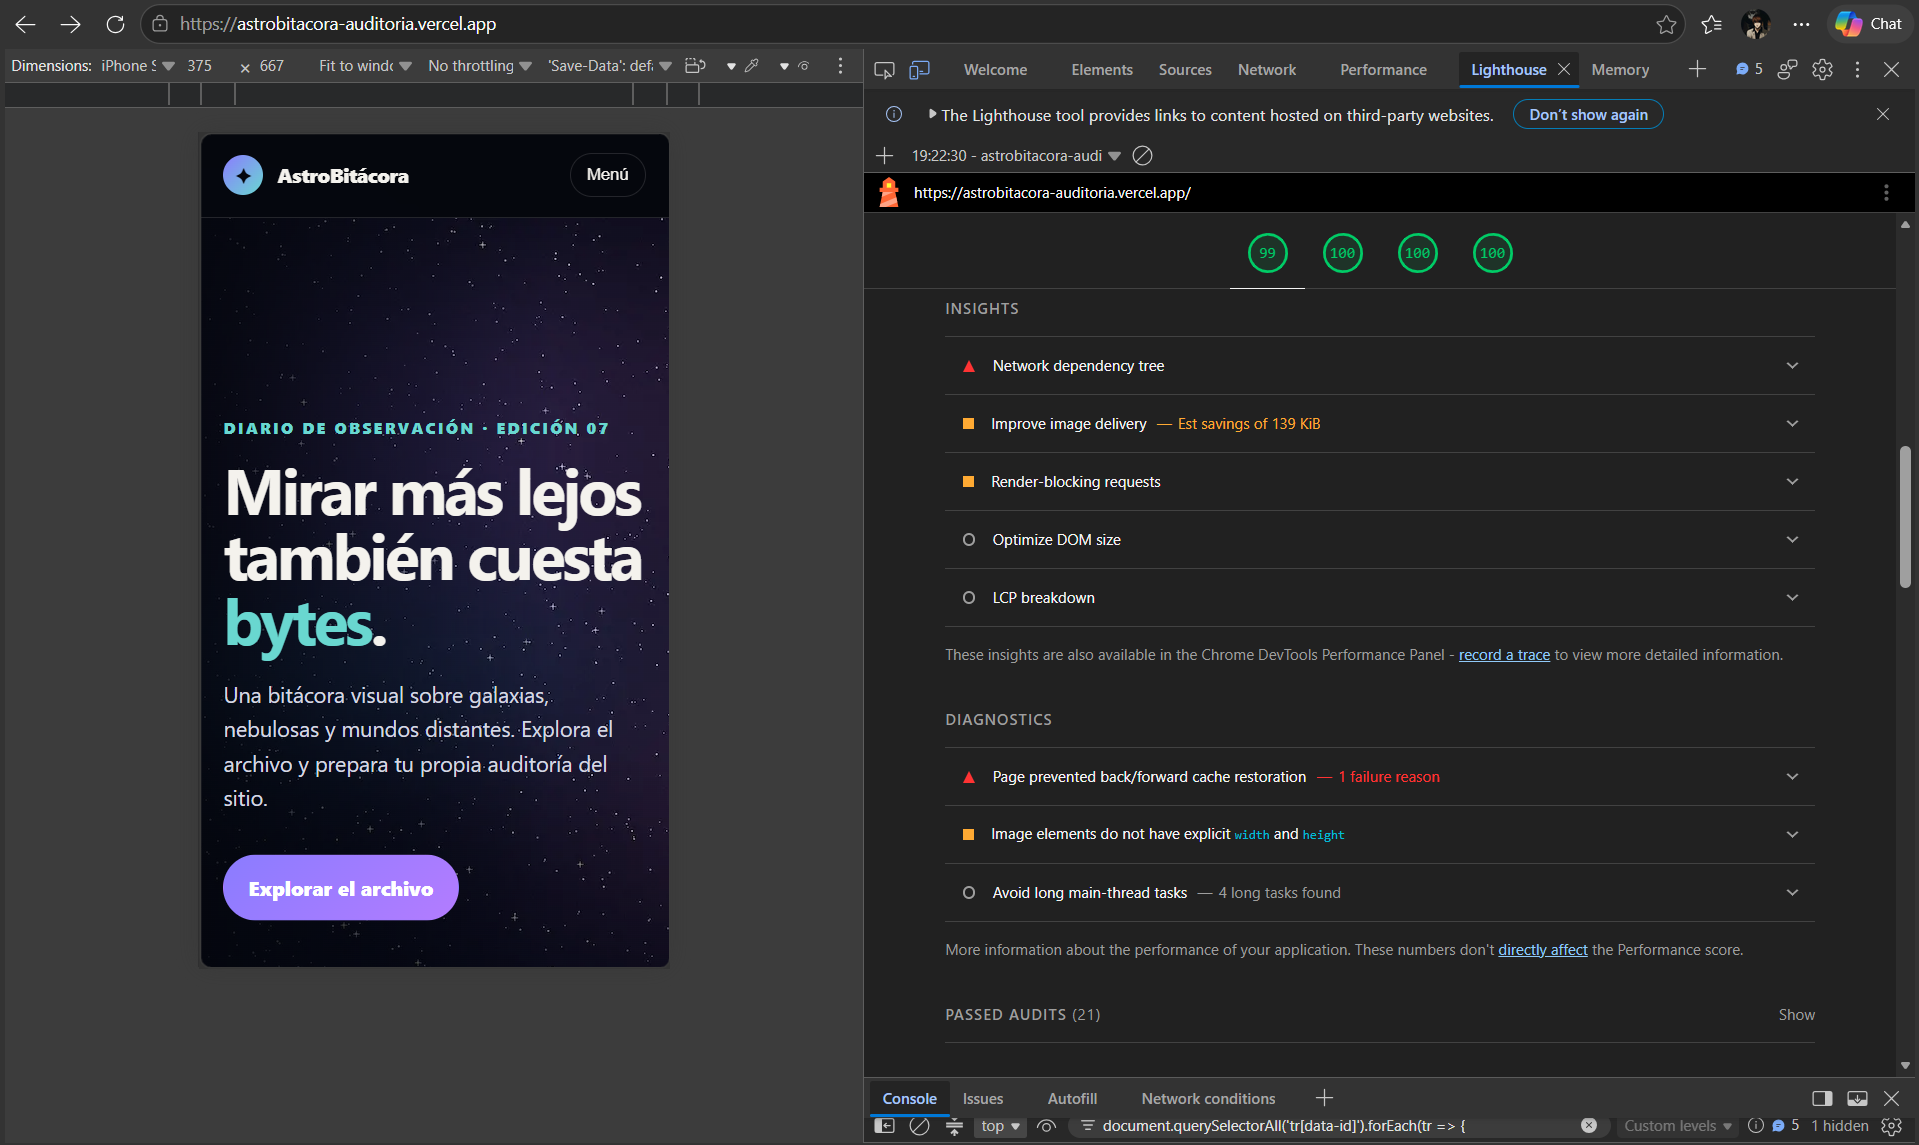
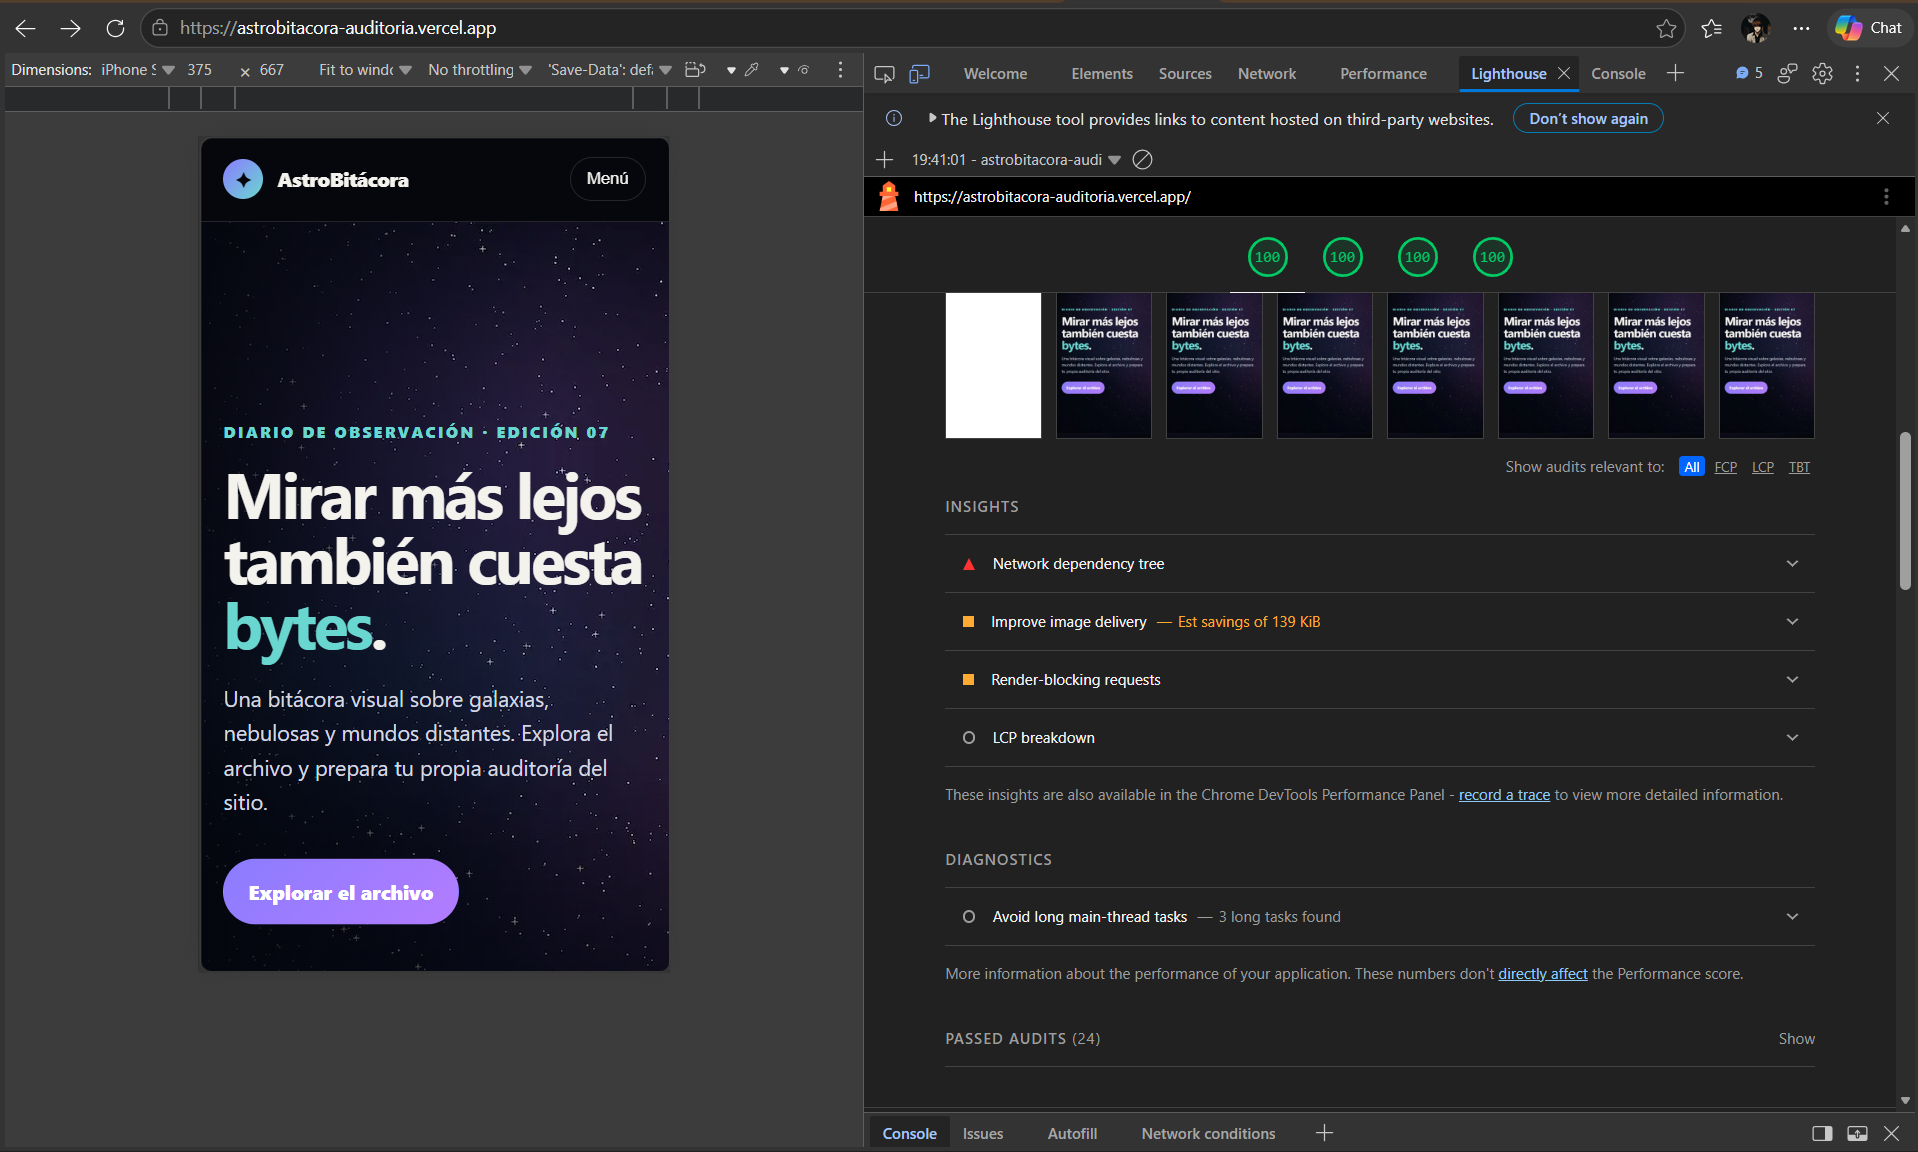
docs: registrar resultados finales

diff --git a/AUDITORIA.md b/AUDITORIA.md
@@ -4,7 +4,11 @@
 - **URL pública:** https://astrobitacora-auditoria.vercel.app/
 - **Autora:** Flavia Valencia
 
-> Los campos marcados con `[completar]` se llenan después de optimizar y volver a medir.
+---
+
+## Resumen
+
+El desempeño pasó de **74 a 100** en Lighthouse (móvil). El LCP bajó de **4.2 s a 1.3 s** y el TBT de **470 ms a 10 ms**, mientras el CLS se mantuvo en **0**. La causa principal del problema era el peso de las imágenes: seis JPEG de 6 a 8 MB que sumaban unos 37.8 MB y que, tras convertirlas a WebP y redimensionarlas, pasaron a unos 236 KB.
 
 ---
 
@@ -30,13 +34,13 @@ Evidencias: `evidencias/inicial-puntaje.png`, `evidencias/inicial-metricas.png` 
 
 ### Las tres oportunidades o diagnósticos más importantes
 
-1. **Improve image delivery (ahorro estimado: 30,785 KiB).** Casi todo el peso de la página viene de las 6 imágenes JPEG, que no están redimensionadas ni comprimidas ni en un formato moderno.
+1. **Improve image delivery (ahorro estimado: 30,785 KiB).** Casi todo el peso de la página viene de las 6 imágenes JPEG, que no están redimensionadas, comprimidas ni en un formato moderno.
 2. **LCP request discovery.** La imagen que define el LCP no se descubre ni se prioriza a tiempo. Se relaciona con la ausencia de `fetchpriority="high"` en el hero y con la competencia de las otras 5 imágenes por el ancho de banda.
 3. **Avoid enormous network payloads (31,119 KiB)** junto con **Image elements do not have explicit width and height**. El primero confirma el problema de peso y el segundo confirma que las 6 `<img>` no declaran dimensiones.
 
 Otros diagnósticos observados: *Render-blocking requests* (script sin `defer` en el `<head>`), *Minimize main-thread work* (3.3 s) y *Avoid long main-thread tasks* (6 tareas largas).
 
-**Elemento LCP antes de optimizar:** `[completar: revisar el desplegable "LCP breakdown" de Lighthouse]`
+**Elemento LCP antes de optimizar:** `[completar: desplegar "LCP breakdown" en la medición inicial]`
 
 ---
 
@@ -55,21 +59,21 @@ Las 6 imágenes JPEG originales. El HTML, CSS y JS juntos pesan alrededor de 16 
 | lunar-horizon.jpg | 6,297,463 B (≈ 6.00 MB) |
 | orion.jpg | 6,294,800 B (≈ 6.00 MB) |
 | deep-field.jpg | 6,217,453 B (≈ 5.93 MB) |
-| **Total** | **≈ 37.8 MB** |
+| **Total** | **39,642,067 B (≈ 37.8 MB)** |
 
 El total transferido medido por Lighthouse (≈ 30.4 MB) es menor porque Cloudinary sirve las imágenes con algo de compresión.
 
 **¿Todas las imágenes necesitan descargarse inmediatamente?**
-No. Solo el hero está en el primer viewport. Las 5 imágenes de la galería están más abajo y no usan `loading="lazy"`, por lo que el navegador las descarga todas al cargar la página.
+No. Solo el hero está en el primer viewport. Las 5 imágenes de la galería están más abajo y no usaban `loading="lazy"`, por lo que el navegador las descargaba todas al cargar la página.
 
 **¿Hay imágenes sin dimensiones explícitas?**
-Sí. Las 6 etiquetas `<img>` no tienen `width` ni `height`. Aun así el CLS medido fue 0, probablemente porque el CSS ya reserva el espacio `[confirmar revisando styles.css]`.
+Sí. Las 6 etiquetas `<img>` no tenían `width` ni `height`. Aun así el CLS medido fue 0. Revisando `styles.css`, la explicación es que `.hero__image` tiene `min-height: 620px`, que reserva el espacio del hero aunque la imagen no haya cargado, y que las imágenes de la galería están fuera del primer viewport, donde el desplazamiento no se contabiliza en el CLS de la carga inicial.
 
 **¿El recurso visual principal tiene un formato y tamaño razonables?**
-No. El hero es un JPEG de unos 8 MB, sin formato moderno y con un tamaño muy superior al que se muestra en pantalla.
+No. El hero era un JPEG de unos 8 MB, sin formato moderno y con un tamaño muy superior al que se muestra en pantalla.
 
 **¿Cómo se carga el JavaScript?**
-Con `<script src="script.js"></script>` en el `<head>`, sin `defer` ni `async`. Bloquea el parseo del HTML mientras se descarga y ejecuta. El archivo es muy pequeño (799 bytes), por lo que se espera un impacto limitado.
+Con `<script src="script.js"></script>` en el `<head>`, sin `defer` ni `async`. Bloquea el parseo del HTML mientras se descarga y ejecuta. El archivo es muy pequeño (799 bytes), por lo que se esperaba un impacto limitado.
 
 **¿Hay recursos que podrían entregarse en un formato más eficiente?**
 Las 6 imágenes: de JPEG a WebP (o AVIF).
@@ -77,8 +81,8 @@ Las 6 imágenes: de JPEG a WebP (o AVIF).
 ### Hipótesis
 
 1. **Si convierto el hero a WebP y lo redimensiono al tamaño con que realmente se muestra, espero mejorar el LCP, porque** el hero es la imagen principal visible al cargar y pasar de unos 8 MB a unos pocos cientos de KB reduce mucho su tiempo de descarga.
-2. **Si agrego `loading="lazy"` a las 5 imágenes de la galería, espero reducir los bytes iniciales y mejorar el LCP, porque** esas imágenes (más de 30 MB) dejan de competir por el ancho de banda con el hero durante la carga inicial.
-3. **Si agrego `width` y `height` a todas las imágenes, espero que el CLS se mantenga en 0 (o no empeore) al cambiar las imágenes, porque** el navegador reserva el espacio antes de que cada imagen termine de descargarse.
+2. **Si agrego `loading="lazy"` a las 5 imágenes de la galería, espero reducir los bytes iniciales y mejorar el LCP, porque** esas imágenes dejan de competir por el ancho de banda con el hero durante la carga inicial.
+3. **Si agrego `width` y `height` a todas las imágenes, espero que el CLS se mantenga en 0, porque** el navegador reserva el espacio antes de que cada imagen termine de descargarse.
 4. **Si agrego `defer` al script y `fetchpriority="high"` al hero, espero una mejora pequeña en FCP y en la detección del LCP, porque** el parseo del HTML ya no se detiene y el navegador prioriza la imagen principal. Como `script.js` usa `DOMContentLoaded`, `defer` es seguro.
 5. **Si reduzco el peso de las imágenes, espero que baje el TBT, porque** decodificar imágenes enormes ocupa el hilo principal, mientras que el script propio es demasiado pequeño para explicarlo.
 
@@ -86,79 +90,117 @@ Las 6 imágenes: de JPEG a WebP (o AVIF).
 
 ## Fase 3. Optimizaciones aplicadas
 
-| Prioridad | Commit | Cambio | Problema observable que resuelve |
-|---|---|---|---|
-| 1 | `perf: optimizar imagen hero` | `[completar]` hero a WebP, ancho ___ px, sin `loading="lazy"`, con `fetchpriority="high"` | Hero de ≈ 8 MB; LCP 4.2 s |
-| 2 | `perf: convertir imagenes de galeria a webp` | `[completar]` 5 imágenes a WebP, ancho ___ px | "Improve image delivery": 30,785 KiB de ahorro estimado |
-| 3 | `perf: diferir imagenes fuera del viewport` | `loading="lazy"` en las 5 imágenes de la galería | Se descargaban todas al inicio |
-| 4 | `perf: agregar width y height a imagenes` | `width` y `height` en las 6 `<img>` | Diagnóstico "Image elements do not have explicit width and height" |
-| 5 | `perf: evitar bloqueo del script principal` | `defer` en `<script src="script.js">` | "Render-blocking requests" |
-| 6 | `docs: registrar resultados finales` | Esta bitácora y evidencias finales | Documentar el antes y el después |
+Historial real del repositorio:
 
-Optimización secundaria (opcional): minificar CSS y JS. Se espera poco impacto porque pesan unos pocos KB.
+| Commit | Cambio | Problema observable que resuelve |
+|---|---|---|
+| `chore: sitio base para auditoria` | Sitio original sin optimizar | Punto de partida |
+| `docs: registrar medicion inicial y evidencias` | Bitácora y capturas iniciales | Evidencia del antes |
+| `perf: optimizar imagen hero` | Hero a WebP (1600 × 900), `fetchpriority="high"`, sin `loading="lazy"`, `height: auto` en `.hero__image` | Hero de ≈ 8 MB; LCP de 4.2 s |
+| `perf: convertir imagenes de galeria a webp` | 5 imágenes a WebP (1000 × 625) | "Improve image delivery": 30,785 KiB de ahorro estimado |
+| `perf: diferir imagenes fuera del viewport` | `loading="lazy"` en las 5 imágenes de la galería | Las 5 se descargaban al inicio aunque no se veían |
+| `perf: evitar bloqueo del script principal` | `defer` en `<script src="script.js">` | "Render-blocking requests" |
+| `perf: agregar width y height a imagenes` | Se agregaron `width="W" height="H"` **sin reemplazar los placeholders** (ver abajo) | "Image elements do not have explicit width and height" |
+| `fix: corregir width y height reales de las imagenes` | Hero 1600 × 900 y galería 1000 × 625 | Corrige el commit anterior |
+| `docs: registrar resultados finales` | Esta bitácora y evidencias finales | Documentar el antes y el después |
+
+Optimización secundaria no aplicada: minificar CSS y JS. Pesan unos pocos KB, por lo que se espera un impacto mínimo.
+
+### Un error detectado durante el proceso
+
+En el commit de `width` y `height` quedaron los valores literales `"W"` y `"H"` en las 6 imágenes, y el navegador los ignora. Una primera medición (19:22:30, puntaje 99) todavía mostraba el diagnóstico *"Image elements do not have explicit width and height"*, y además se hizo apenas un minuto después del último commit, antes de que el despliegue estuviera publicado. Con `Select-String` sobre `index.html` se confirmó el problema, se obtuvieron las medidas reales desde la consola del navegador (`naturalWidth` y `naturalHeight`) y se corrigió en un commit aparte. Esa medición se descarta como final y se conserva solo como referencia.
 
 ### Peso de las imágenes antes y después
 
-| Imagen | JPEG original | WebP final | Ahorro |
+| Imagen | JPEG original | WebP final | Reducción |
 |---|---|---|---|
-| hero-cosmos | 7.80 MB | `[completar]` | `[completar]` |
-| andromeda | 6.05 MB | `[completar]` | `[completar]` |
-| exoplanet | 6.01 MB | `[completar]` | `[completar]` |
-| lunar-horizon | 6.00 MB | `[completar]` | `[completar]` |
-| orion | 6.00 MB | `[completar]` | `[completar]` |
-| deep-field | 5.93 MB | `[completar]` | `[completar]` |
-| **Total** | **≈ 37.8 MB** | `[completar]` | `[completar]` |
+| hero-cosmos | 8,183,389 B (7.80 MB) | 59,960 B (58.6 KB) | 99.3 % |
+| andromeda | 6,344,666 B (6.05 MB) | 35,836 B (35.0 KB) | 99.4 % |
+| exoplanet | 6,304,296 B (6.01 MB) | 36,586 B (35.7 KB) | 99.4 % |
+| lunar-horizon | 6,297,463 B (6.00 MB) | 37,182 B (36.3 KB) | 99.4 % |
+| orion | 6,294,800 B (6.00 MB) | 35,526 B (34.7 KB) | 99.4 % |
+| deep-field | 6,217,453 B (5.93 MB) | 36,190 B (35.3 KB) | 99.4 % |
+| **Total** | **39,642,067 B (37.8 MB)** | **241,280 B (235.6 KB)** | **99.4 %** |
+
+Formato elegido: **WebP**, calidad aproximada de 75, exportado con Squoosh. El hero a 1600 px de ancho y las 5 imágenes de la galería a 1000 px.
 
 ---
 
 ## Fase 4. Medición final
 
-Condiciones iguales a las de la medición inicial: mismo navegador (Edge), misma emulación móvil, misma herramienta y configuración.
+Condiciones iguales a las de la medición inicial: Edge, emulación móvil de iPhone (375 × 667), Lighthouse con la categoría Performance, ventana de incógnito.
 
-| Métrica | Antes | Después | Cambio |
+| Métrica | Antes (18:24:11) | Después (19:41:01) | Cambio |
 |---|---|---|---|
-| Fecha y hora | 01/10/2026 18:24:11 | `[completar]` | |
-| Puntaje de desempeño | 74 | `[completar]` | |
-| FCP | 1.1 s | `[completar]` | |
-| LCP | 4.2 s | `[completar]` | |
-| CLS | 0 | `[completar]` | |
-| TBT | 470 ms | `[completar]` | |
-| Speed Index | 1.4 s | `[completar]` | |
-| Bytes transferidos | 31,119 KiB | `[completar]` | |
+| Puntaje de desempeño | 74 | **100** | +26 puntos |
+| FCP | 1.1 s | 1.0 s | −0.1 s |
+| LCP | 4.2 s | 1.3 s | −2.9 s (−69 %) |
+| CLS | 0 | 0 | Se mantuvo |
+| TBT | 470 ms | 10 ms | −460 ms (−98 %) |
+| Speed Index | 1.4 s | 1.1 s | −0.3 s |
+| Bytes transferidos | 31,119 KiB | `[completar: pestaña Network, "Disable cache" activado]` | |
 
-Evidencias: `evidencias/final-metricas.png` y `evidencias/final-insights.png`.
+Evidencias: `evidencias/final-puntaje.png`, `evidencias/final-metricas.png` y `evidencias/final-insights.png`.
+
+### Medición intermedia descartada (19:22:30)
+
+| Métrica | Valor |
+|---|---|
+| Puntaje | 99 |
+| FCP / LCP | 1.2 s / 1.3 s |
+| TBT | 130 ms |
+| CLS | 0 |
+| Speed Index | 1.6 s |
+
+Se descarta porque se hizo antes de publicar la corrección de `width` y `height`. En esa corrida también apareció el diagnóstico *"Page prevented back/forward cache restoration"*, que no volvió a aparecer en la medición final.
+
+### Insights en la medición final
+
+- *Improve image delivery*: ahorro estimado de 139 KiB (antes: 30,785 KiB).
+- *Render-blocking requests* y *Network dependency tree*: siguen apareciendo. `[completar: abrir cada uno y anotar qué recurso señala]`
+- *Avoid long main-thread tasks*: 3 tareas largas (antes: 6).
+- Ya no aparecen *Avoid enormous network payloads* ni *Image elements do not have explicit width and height*.
 
 ### Análisis
 
-- **¿Qué métrica cambió más?** `[completar]`
-- **¿Qué optimización redujo más bytes?** `[completar]` (hipótesis: la conversión a WebP con redimensionado)
-- **¿Qué cambio tuvo poco impacto?** `[completar]` (hipótesis: `defer`, por el tamaño mínimo del script)
-- **¿Apareció algún problema nuevo?** `[completar]`
-- **¿Conservaría todos los cambios en producción? ¿Por qué?** `[completar]`
+**¿Qué métrica cambió más?**
+El LCP en tiempo absoluto, de 4.2 s a 1.3 s, que pasó de rojo a verde. En porcentaje, el TBT bajó más (−98 %). Ambos se explican por el mismo cambio: dejar de descargar y decodificar imágenes de 6 a 8 MB.
+
+**¿Qué optimización redujo más bytes?**
+La conversión a WebP con redimensionado. Las seis imágenes pasaron de 37.8 MB a 235.6 KB, una reducción del 99.4 %. `loading="lazy"` no reduce el peso total de la página, solo difiere cuándo se descargan las imágenes de la galería.
+
+**¿Qué cambio tuvo poco impacto?**
+`defer` en el script. Pesa 799 bytes, así que el bloqueo que causaba era mínimo. No se midió de forma aislada, por lo que es una inferencia. Tampoco se esperaba mejora en CLS por `width` y `height`: el CLS ya era 0 y se mantuvo.
+
+**¿Apareció algún problema nuevo?**
+Sí, uno de proceso y no de rendimiento: el commit de `width` y `height` se subió con los placeholders `"W"` y `"H"` y hubo que corregirlo (ver Fase 3). En la medición final no aparecieron problemas nuevos de rendimiento y el CLS siguió en 0.
+
+**¿Conservaría todos los cambios en producción? ¿Por qué?**
+Sí. Cada cambio está justificado por evidencia y ninguno empeoró una métrica. Con una salvedad: los WebP pesan unos 35 KB, y conviene revisar a ojo que mantengan nitidez suficiente, sobre todo las dos tarjetas anchas en pantallas grandes. Si se ven blandas, se puede subir la calidad o el ancho de exportación. Los WebP están ya servidos desde el mismo origen, lo que además elimina la dependencia de Cloudinary.
 
 ---
 
 ## Preguntas finales
 
 **1. ¿Qué significa LCP y cuál fue el elemento LCP antes y después?**
-LCP (Largest Contentful Paint) mide cuánto tarda en mostrarse el elemento visible más grande del primer viewport. Un buen valor es de 2.5 s o menos.
+LCP (Largest Contentful Paint) mide cuánto tarda en mostrarse el elemento de contenido más grande visible en el primer viewport. Un buen valor es de 2.5 s o menos. Pasó de 4.2 s a 1.3 s.
 - Antes: `[completar]`
 - Después: `[completar]`
 
 **2. ¿Cómo puede una imagen sin dimensiones explícitas contribuir a CLS?**
-Sin `width` y `height`, el navegador no sabe cuánto espacio reservar hasta que la imagen se descarga. Al llegar, el contenido de abajo se desplaza, lo que genera un cambio de diseño inesperado. Con las dimensiones declaradas, el navegador calcula la proporción y reserva el espacio desde el inicio. En esta página el CLS inicial fue 0, probablemente porque el CSS ya reserva el espacio `[confirmar con styles.css]`, pero declarar las dimensiones sigue siendo una buena práctica.
+Sin `width` y `height`, el navegador no sabe cuánto espacio reservar hasta que la imagen se descarga. Al llegar, el contenido de abajo se desplaza, lo que genera un cambio de diseño inesperado. Con las dimensiones declaradas, el navegador calcula la proporción y reserva el espacio desde el inicio. En esta página el CLS fue 0 desde el principio porque `.hero__image` tiene `min-height: 620px` y las imágenes de la galería están fuera del primer viewport. Declarar las dimensiones sigue siendo buena práctica porque protege el diseño si el CSS cambia.
 
-**3. ¿Por qué `loading="lazy"` es útil en una galería, pero puede ser mala idea en una imagen principal?**
-En una galería, las imágenes están fuera del primer viewport, así que diferir su descarga ahorra bytes y ancho de banda para lo que sí se ve primero. En la imagen principal ocurre lo contrario: es visible al cargar y suele ser el elemento LCP, y con `lazy` el navegador espera a calcular el layout antes de pedirla, lo que retrasa el LCP. Para el hero conviene cargarla de inmediato, incluso con `fetchpriority="high"`.
+**3. ¿Por qué `loading="lazy"` es útil en una galería, pero puede ser una mala idea en una imagen principal?**
+En una galería, las imágenes están fuera del primer viewport, así que diferir su descarga ahorra ancho de banda para lo que sí se ve primero. En la imagen principal ocurre lo contrario: es visible al cargar y suele ser el elemento LCP. Con `lazy`, el navegador espera a calcular el layout antes de pedirla, lo que retrasa el LCP. Por eso el hero va sin `lazy` y con `fetchpriority="high"`.
 
-**4. Diferencia entre `defer` y `async`. ¿Cuál elegí y por qué?**
-Ambos descargan el script sin bloquear el parseo del HTML. `async` lo ejecuta apenas termina de descargarse, en cualquier momento y sin garantizar el orden entre scripts. `defer` lo ejecuta después de terminar de parsear el HTML, antes de `DOMContentLoaded`, y respeta el orden. Elegí `defer` porque `script.js` depende del DOM (botones, contador, año) y usa `DOMContentLoaded`, y porque es un único script propio sin dependencias externas.
+**4. Explica la diferencia entre `defer` y `async`. ¿Cuál elegiste y por qué?**
+Ambos descargan el script sin bloquear el parseo del HTML. `async` lo ejecuta apenas termina de descargarse, en cualquier momento y sin garantizar orden entre scripts. `defer` lo ejecuta después de terminar de parsear el HTML, antes de `DOMContentLoaded`, y respeta el orden. Elegí `defer` porque `script.js` depende del DOM (botones, contador, año), usa `DOMContentLoaded` y es un único script propio.
 
-**5. ¿Qué formato de imagen elegí y qué comparación de peso obtuve?**
-`[completar: formato elegido (WebP), calidad usada y comparación total de pesos con la tabla de la Fase 3]`
+**5. ¿Qué formato de imagen elegiste y qué comparación de peso obtuviste?**
+WebP, con calidad aproximada de 75. Las 6 imágenes pasaron de 39,642,067 B (37.8 MB) a 241,280 B (235.6 KB), una reducción del 99.4 %. El hero pasó de 7.80 MB a 58.6 KB.
 
-**6. Si el puntaje sube, pero el LCP sigue por encima del objetivo, ¿la optimización está terminada?**
-No. El puntaje es una combinación ponderada de varias métricas, y un buen puntaje puede ocultar un LCP malo, que es lo que más percibe el usuario al cargar la página. Habría que investigar qué retrasa el elemento LCP (tamaño de la imagen, descubrimiento tardío, bloqueo de render, servidor o red) y seguir optimizando hasta cumplir el objetivo, o justificar por qué no es posible.
+**6. Si el puntaje de desempeño sube, pero LCP sigue por encima del objetivo, ¿consideras terminada la optimización?**
+No. El puntaje es una combinación ponderada de varias métricas, y un buen puntaje puede ocultar un LCP malo, que es lo que más percibe el usuario al cargar la página. Habría que investigar qué retrasa el elemento LCP (tamaño de la imagen, descubrimiento tardío, bloqueo de render, servidor o red) y seguir optimizando hasta cumplir el objetivo. En este proyecto no se da ese caso: el puntaje es 100 y el LCP es de 1.3 s, por debajo del objetivo de 2.5 s.
 
 **7.** El enunciado deja esta pregunta en blanco (solo aparece un punto). `[completar si el docente indica cuál es]`
 
@@ -171,7 +213,7 @@ evidencias/
 ├── inicial-puntaje.png
 ├── inicial-metricas.png
 ├── inicial-insights.png
-├── final-puntaje.png       (pendiente)
-├── final-metricas.png      (pendiente)
-└── final-insights.png      (pendiente)
+├── final-puntaje.png
+├── final-metricas.png
+└── final-insights.png
 ```
